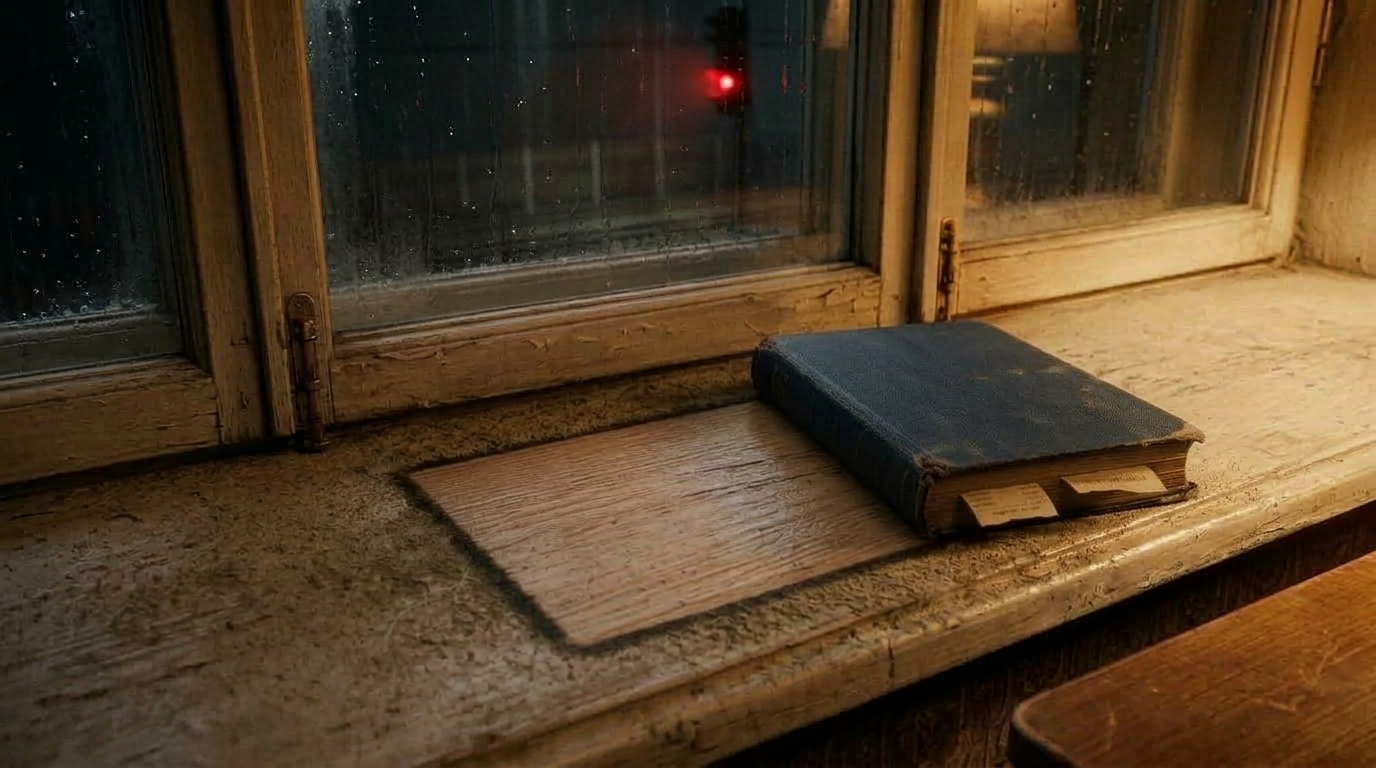
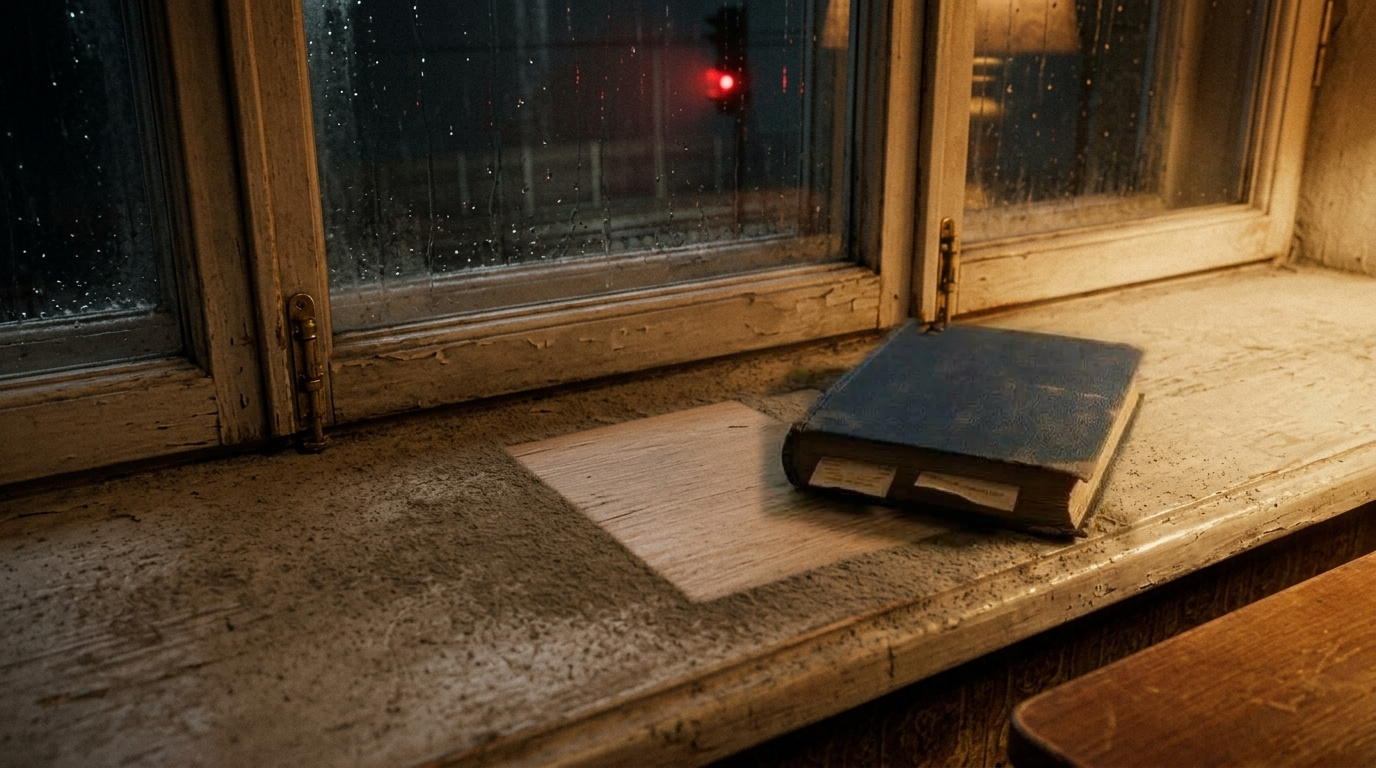
Картинки по аудиту: утренняя кухня, фото-якорь, ночные кадры, вид из мастерской
- кухня «Не приходи» утром — свой рассветный кадр: сухое стекло, туман с реки, лампа горит
- фото-якорь: русская кухня, окно на насыпь, Тихон и Вера в красном кардигане
- холодильник «Приходи» крупно — ночной кадр для финала главы 1; на общем плане
  с двойником дверца чистая, буквы рисует игра
- комната Веры в главе 3 — ночные кадры (и стол крупно), ночная музыка
- мастерская двойника: за окном русская электричка и пятиэтажки вместо японских
- утренняя комната Тихона: коробка «детство» и форменная куртка как ночью
- книга на подоконнике «Приходи» видна и на крупном плане кружек
- подоконник: при сдвинутой книге чистое место остаётся на месте
- колонка Мири — своя, не узнаваемая модель; открытка — тот же ноутбук и лампа, что в комнате

diff --git a/src/scenes/kitchen.js b/src/scenes/kitchen.js
@@ -13,7 +13,10 @@ const BG = {
   np: A.plate('assets/backgrounds/K-NP-1.jpg', 1376, 768),
   p: A.plate('assets/backgrounds/K-P-1-clean-book.jpg', 1376, 768), // чистая дверца (буквы рисуются поверх), книга на подоконнике
   pt: A.plate('assets/backgrounds/K-P-1-twin-book.jpg', 1376, 768), // та же кухня ночью, двойник у холодильника
-  pf: A.plate('assets/backgrounds/K-P-2-2.jpg', 1376, 768),
+  // дверца крупно — только в финале главы 1, ночью: ночной кадр, выровнен по пикселям с дневным K-P-2-2
+  pf: A.plate('assets/backgrounds/K-P-2-2-night.jpg', 1376, 768),
+  // утро в НП: отдельный рассветный кадр (сухое стекло, туман), выровнен по пикселям с K-NP-1
+  npm: A.plate('assets/backgrounds/K-NP-1-morning.jpg', 1376, 768),
 };
 
 // ---------- Магнитные буквы ----------
@@ -169,12 +172,8 @@ function semaphore(B, [x, y], r = 11) {
 function buildNP(time) {
   const B = BG.np;
   const night = time === 'night';
-  let s = commonDefs('np') + B.image(`class="bg bg-${time}"`);
-  if (time === 'morning') {
-    // утро: мягкое свечение от окна, без резких краёв
-    const [cx, cy] = B.I(300, 280);
-    s += `<circle cx="${cx}" cy="${cy}" r="${520 * B.k}" fill="url(#knp-dawn)" style="mix-blend-mode:screen"/>`;
-  }
+  // утро — свой кадр (та же разметка), вечер — ночной кадр чуть светлее
+  let s = commonDefs('np') + (time === 'morning' ? BG.npm.image('class="bg"') : B.image(`class="bg bg-${time}"`));
   s += semaphore(B, [247, 236]);
   // тёплый круг от лампы на столе
   const lamp = B.I(690, 380);
@@ -475,7 +474,7 @@ function kitchenNP(time) {
     id: `kitchen-np-${time}`,
     world: 'np',
     title: 'Кухня',
-    bg: BG.np.src,
+    bg: time === 'morning' ? BG.npm.src : BG.np.src,
     shots: shotsNP,
     ambience: time === 'morning' ? ['fridge', 'kettle', 'clock'] : ['fridge', 'clock', 'drizzle'],
     build: () => buildNP(time),

diff --git a/src/scenes/vera-np.js b/src/scenes/vera-np.js
@@ -8,6 +8,10 @@ const ROOM_EMPTY = A.plate('assets/backgrounds/V-NP-1-nobook-off.jpg', 1376, 768
 const ROOM_UV = A.plate('assets/backgrounds/V-NP-1.jpg', 1376, 768);
 const ROOM_EMPTY_UV = A.plate('assets/backgrounds/V-NP-1-nobook.jpg', 1376, 768);
 const DESK = A.plate('assets/backgrounds/V-NP-2-2.jpg', 1376, 768);
+// ночные кадры (класс vera-night от главы): та же разметка, за окном ночь, горят только лампы
+const ROOM_N = A.plate('assets/backgrounds/V-NP-1-off-night.jpg', 1376, 768);
+const ROOM_EMPTY_N = A.plate('assets/backgrounds/V-NP-1-nobook-off-night.jpg', 1376, 768);
+const DESK_N = A.plate('assets/backgrounds/V-NP-2-2-night.jpg', 1376, 768);
 
 function buildRoom() {
   const B = ROOM;
@@ -17,6 +21,7 @@ function buildRoom() {
   // когда книгу унесли — тот же кадр без книги на столе (V-NP-1-nobook)
   s += ROOM_EMPTY.image('class="bg-nobook"');
   s += ROOM_UV.image('class="bg-uv"') + ROOM_EMPTY_UV.image('class="bg-uv bg-nobook"');
+  s += ROOM_N.image('class="bg-night"') + ROOM_EMPTY_N.image('class="bg-night bg-nobook"');
   const lamp = B.I(675, 405);
   s += `<circle class="flicker" cx="${lamp[0]}" cy="${lamp[1]}" r="260" fill="url(#vr-lamp)" style="mix-blend-mode:screen"/>`;
   // пыль в свете лампы
@@ -30,7 +35,7 @@ function buildRoom() {
 function buildDesk() {
   const B = DESK;
   let s = `<defs></defs>`;
-  s += B.image('class="bg"');
+  s += B.image('class="bg"') + DESK_N.image('class="bg-night"');
   return s;
 }
 

diff --git a/src/ui/style.css b/src/ui/style.css
@@ -146,6 +146,9 @@ button { font: inherit; color: inherit; }
 /* УФ-лампа Веры включена (позже по сюжету) */
 .bg-uv { display: none !important; }
 .uv-on .bg-uv:not(.bg-nobook), .uv-on.book-taken .bg-uv.bg-nobook { display: inline !important; }
+/* комната Веры ночью (глава 3): ночные кадры поверх дневных */
+.bg-night { display: none !important; }
+.vera-night .bg-night:not(.bg-nobook), .vera-night.book-taken .bg-night.bg-nobook { display: inline !important; }
 /* записи на полях книги (глава 3) */
 .w-pencil, .w-faint, .w-lemon, .w-burn, .w-reply, .w-m2 { display: none; }
 .w-pencil-on .w-pencil, .w-faint-on .w-faint, .w-lemon-on .w-lemon, .w-burn-on .w-burn, .w-reply-on .w-reply, .w-m2-on .w-m2 { display: inline; }

diff --git a/story/chapters/chapter3.js b/story/chapters/chapter3.js
@@ -31,7 +31,7 @@ export default {
   },
 
   sceneClasses: (s) => [
-    'note-shift', 'book-on-sill', 'book-taken', 'book-shifted',
+    'note-shift', 'book-on-sill', 'book-taken', 'book-shifted', 'vera-night',
     s.flags.pencil && 'w-pencil-on',
     s.flags.faint && 'w-faint-on',
     s.flags.lemon && 'w-lemon-on',
